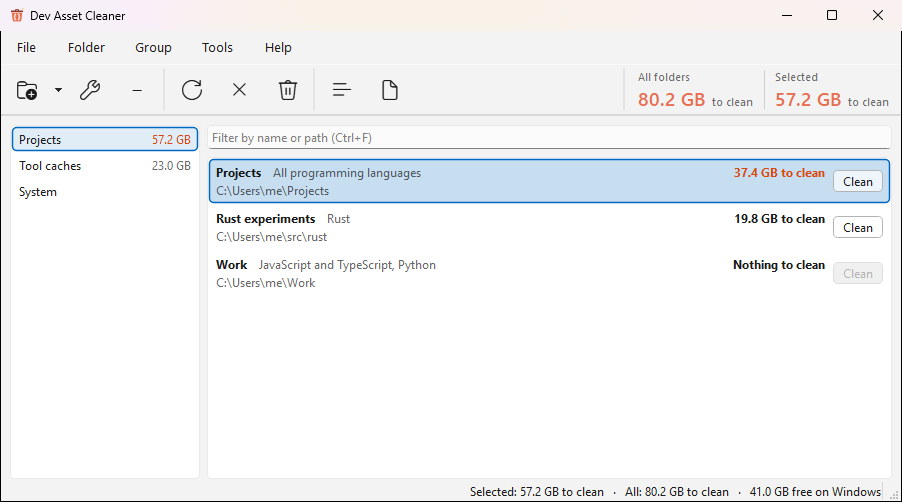
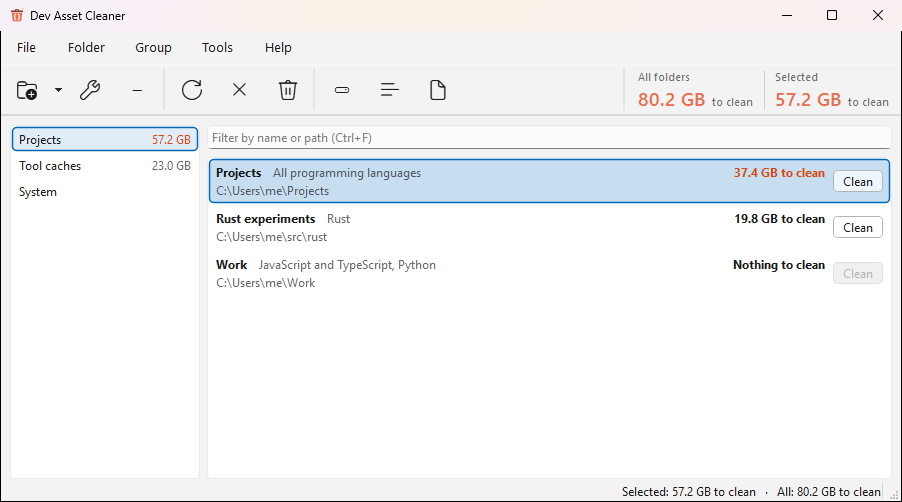
Move free space to a dialog; show only low disks in the status bar
The status bar no longer lists every disk's free space. A Free space
button in the toolbar (also Tools > Free space) opens FreeSpaceDialog,
which lists each disk with free space, size and use, and marks the
disks below the warning. The status bar shows only those disks, in the
warning colour, as an item of its own.

Changed region(s): [[0.5277, 0.9562, 0.9933, 1.0], [0.3725, 0.1494, 0.4346, 0.2092], [0.4656, 0.1494, 0.4967, 0.2092]]

diff --git a/src/ui/MainWindow.cpp b/src/ui/MainWindow.cpp
@@ -3,6 +3,7 @@
 #include "AppInfo.h"
 #include "DetectDialog.h"
 #include "ExcludeDialog.h"
+#include "FreeSpaceDialog.h"
 #include "SystemFoldersDialog.h"
 #include "FolderDialog.h"
 #include "FolderListView.h"
@@ -75,6 +76,7 @@ MainWindow::MainWindow(Store *store, Monitor *monitor, QWidget *parent)
     , m_groups(new GroupListView(m_groupModel, this))
     , m_filter(new QLineEdit(this))
     , m_summary(new QLabel(this))
+    , m_lowSpace(new QLabel(this))
     , m_busy(new SpinnerWidget(this))
 {
     setWindowTitle(AppInfo::displayName());
@@ -165,6 +167,16 @@ MainWindow::MainWindow(Store *store, Monitor *monitor, QWidget *parent)
     m_busy->setToolTip(tr("Scanning or cleaning folders"));
     statusBar()->addPermanentWidget(m_busy);
     statusBar()->addPermanentWidget(m_summary);
+    // Disks below the free space warning get an item of their own, shown only while any is low.
+    m_lowSpace->setObjectName(QStringLiteral("lowSpace"));
+    {
+        QPalette palette = m_lowSpace->palette();
+        palette.setColor(QPalette::WindowText, QColor(0xD9, 0x48, 0x0F));
+        m_lowSpace->setPalette(palette);
+    }
+    m_lowSpace->setToolTip(tr("Free space is below the warning in the settings"));
+    m_lowSpace->hide();
+    statusBar()->addPermanentWidget(m_lowSpace);
 
     createActions();
     createTray();
@@ -279,6 +291,10 @@ void MainWindow::createActions()
     tools->addAction(tr("Rescan e&verything"), m_monitor, &Monitor::rescanAll);
     tools->addSeparator();
     QAction *types = tools->addAction(tr("Cleaner &types…"), this, &MainWindow::editTypes);
+    QAction *freeSpace = tools->addAction(tr("&Free space…"), this, [this] {
+        FreeSpaceDialog dialog(m_store, m_monitor, this);
+        dialog.exec();
+    });
     QAction *settings = tools->addAction(tr("&Settings…"), this, &MainWindow::editSettings);
     settings->setShortcut(QKeySequence(Qt::CTRL | Qt::Key_Comma));
     settings->setMenuRole(QAction::PreferencesRole);
@@ -298,6 +314,7 @@ void MainWindow::createActions()
     m_cleanAllAction->setIcon(Icons::toolIcon(QIcon::ThemeIcon::EditDelete));
     types->setIcon(Icons::toolIcon(QIcon::ThemeIcon::FormatJustifyLeft));
     settings->setIcon(Icons::toolIcon(QIcon::ThemeIcon::DocumentPageSetup));
+    freeSpace->setIcon(Icons::toolIcon(QIcon::ThemeIcon::DriveHarddisk));
 
     // The toolbar repeats the most used commands, with shorter labels than the menus.
     QToolBar *toolbar = addToolBar(tr("Toolbar"));
@@ -341,6 +358,7 @@ void MainWindow::createActions()
     addButton(m_cleanAction, tr("Clean"));
     addButton(m_cleanAllAction, tr("Clean the selected groups"));
     toolbar->addSeparator();
+    addButton(freeSpace, tr("Free space"));
     addButton(types, tr("Cleaner types"));
     addButton(settings, tr("Settings"));
 #ifndef Q_OS_MACOS
@@ -435,10 +453,10 @@ void MainWindow::createTray()
 
 void MainWindow::updateSummary()
 {
-    QStringList free;
+    QStringList low;
     for (const Volume &v : m_monitor->volumes()) {
-        free.append(tr("%1%2 free on %3")
-                        .arg(v.low ? warningMark() : QString(), Format::bytes(v.freeBytes), v.name));
+        if (v.low)
+            low.append(tr("%1 free on %2").arg(Format::bytes(v.freeBytes), v.name));
     }
     const QList<QUuid> groups = selectedGroups();
     const qint64 groupCleanable = m_monitor->groupCleanableBytes(groups);
@@ -449,9 +467,9 @@ void MainWindow::updateSummary()
     } else {
         text = tr("Folders: %1 to clean").arg(Format::bytes(m_monitor->cleanableBytes()));
     }
-    if (!free.isEmpty())
-        text += QStringLiteral("   ·   ") + free.join(QStringLiteral(", "));
     m_summary->setText(text);
+    m_lowSpace->setText(warningMark() + low.join(QStringLiteral(", ")));
+    m_lowSpace->setVisible(!low.isEmpty());
     m_busy->setRunning(m_monitor->isBusy());
     if (m_usage) {
         // The selection is worth its own column only when it is not every group.

diff --git a/src/ui/FreeSpaceDialog.cpp b/src/ui/FreeSpaceDialog.cpp
@@ -1,0 +1,90 @@
+#include "FreeSpaceDialog.h"
+
+#include "Format.h"
+#include "clean/Monitor.h"
+#include "model/Store.h"
+
+#include <QDialogButtonBox>
+#include <QDir>
+#include <QHeaderView>
+#include <QLabel>
+#include <QPushButton>
+#include <QTreeWidget>
+#include <QVBoxLayout>
+
+namespace {
+const QColor WarningColor(0xD9, 0x48, 0x0F);
+
+enum Column { DiskColumn, FreeColumn, SizeColumn, UsedColumn, PathColumn };
+} // namespace
+
+FreeSpaceDialog::FreeSpaceDialog(Store *store, Monitor *monitor, QWidget *parent)
+    : QDialog(parent)
+    , m_store(store)
+    , m_monitor(monitor)
+    , m_list(new QTreeWidget(this))
+    , m_note(new QLabel(this))
+{
+    setWindowTitle(tr("Free space"));
+    resize(620, 300);
+
+    m_list->setHeaderLabels({tr("Disk"), tr("Free"), tr("Size"), tr("Used"), tr("Path")});
+    m_list->setRootIsDecorated(false);
+    m_list->setUniformRowHeights(true);
+    m_list->setSelectionMode(QAbstractItemView::NoSelection);
+    m_list->setFocusPolicy(Qt::NoFocus);
+    m_list->header()->setStretchLastSection(true);
+    for (int c : {FreeColumn, SizeColumn, UsedColumn})
+        m_list->headerItem()->setTextAlignment(c, Qt::AlignRight | Qt::AlignVCenter);
+
+    m_note->setWordWrap(true);
+
+    auto *buttons = new QDialogButtonBox(QDialogButtonBox::Close, this);
+    connect(buttons, &QDialogButtonBox::rejected, this, &QDialog::reject);
+
+    auto *layout = new QVBoxLayout(this);
+    layout->addWidget(m_list, 1);
+    layout->addWidget(m_note);
+    layout->addWidget(buttons);
+
+    connect(m_monitor, &Monitor::volumesChanged, this, &FreeSpaceDialog::refresh);
+    connect(m_store, &Store::changed, this, &FreeSpaceDialog::refresh);
+    refresh();
+}
+
+void FreeSpaceDialog::refresh()
+{
+    m_list->clear();
+    const QList<Volume> volumes = m_monitor->volumes();
+    for (const Volume &v : volumes) {
+        auto *item = new QTreeWidgetItem(m_list);
+        item->setText(DiskColumn, v.low ? QStringLiteral("⚠ ") + v.name : v.name);
+        item->setText(FreeColumn, Format::bytes(v.freeBytes));
+        item->setText(SizeColumn, Format::bytes(v.totalBytes));
+        if (v.totalBytes > 0) {
+            const double used = 100.0 * double(v.totalBytes - v.freeBytes) / double(v.totalBytes);
+            item->setText(UsedColumn, tr("%1%").arg(used, 0, 'f', 0));
+        }
+        item->setText(PathColumn, QDir::toNativeSeparators(v.rootPath));
+        for (int c : {FreeColumn, SizeColumn, UsedColumn})
+            item->setTextAlignment(c, Qt::AlignRight | Qt::AlignVCenter);
+        if (v.low) {
+            for (int c = 0; c < m_list->columnCount(); ++c)
+                item->setForeground(c, WarningColor);
+            item->setToolTip(DiskColumn, tr("Free space is below the warning in the settings."));
+        }
+    }
+    for (int c = 0; c < PathColumn; ++c)
+        m_list->resizeColumnToContents(c);
+
+    const qint64 warnBelow = m_store->settings().freeWarnBytes;
+    QString note;
+    if (volumes.isEmpty())
+        note = tr("No monitored folder is on a disk that can be read.");
+    else if (warnBelow > 0)
+        note = tr("Disks with less than %1 free are marked. The limit is in the settings.")
+                   .arg(Format::bytes(warnBelow));
+    else
+        note = tr("The free space warning is off in the settings.");
+    m_note->setText(note);
+}

diff --git a/tests/tst_mainwindow.cpp b/tests/tst_mainwindow.cpp
@@ -6,6 +6,7 @@
 #include "ui/FolderDialog.h"
 #include "ui/FolderListView.h"
 #include "ui/FolderModel.h"
+#include "ui/FreeSpaceDialog.h"
 #include "ui/GroupListView.h"
 #include "ui/GroupModel.h"
 #include "ui/MainWindow.h"
@@ -18,6 +19,7 @@
 #include <QDialogButtonBox>
 #include <QDir>
 #include <QFile>
+#include <QLabel>
 #include <QLineEdit>
 #include <QListWidget>
 #include <QPushButton>
@@ -369,6 +371,34 @@ private slots:
         auto *buttons = dialog.findChild<QDialogButtonBox *>();
         QVERIFY(buttons);
         QVERIFY(!buttons->button(QDialogButtonBox::Ok)->isEnabled());
+    }
+
+    void lowDisksShowInTheStatusBar()
+    {
+        auto *low = m_window->findChild<QLabel *>(QStringLiteral("lowSpace"));
+        QVERIFY(low);
+        Volume big{QStringLiteral("/big"), QStringLiteral("Big"), 500LL * 1000 * 1000 * 1000,
+                   1000LL * 1000 * 1000 * 1000};
+        Volume small{QStringLiteral("/small"), QStringLiteral("Small"), 1000 * 1000,
+                     100LL * 1000 * 1000 * 1000};
+        m_monitor->setVolumesForDisplay({big});
+        QVERIFY(low->isHidden());
+
+        m_monitor->setVolumesForDisplay({big, small});
+        QVERIFY(!low->isHidden());
+        QVERIFY(low->text().contains(QStringLiteral("Small")));
+        QVERIFY(!low->text().contains(QStringLiteral("Big")));
+
+        // The dialog lists every disk and follows the monitor.
+        FreeSpaceDialog dialog(m_store.get(), m_monitor.get());
+        auto *tree = dialog.findChild<QTreeWidget *>();
+        QVERIFY(tree);
+        QCOMPARE(tree->topLevelItemCount(), 2);
+        QVERIFY(tree->topLevelItem(1)->text(0).contains(QStringLiteral("Small")));
+        QVERIFY(tree->topLevelItem(0)->foreground(0) != tree->topLevelItem(1)->foreground(0));
+        m_monitor->setVolumesForDisplay({big});
+        QCOMPARE(tree->topLevelItemCount(), 1);
+        QVERIFY(low->isHidden());
     }
 
 private:

diff --git a/src/ui/FreeSpaceDialog.h b/src/ui/FreeSpaceDialog.h
@@ -1,0 +1,26 @@
+#pragma once
+
+#include <QDialog>
+
+class Monitor;
+class QLabel;
+class QTreeWidget;
+class Store;
+
+// Shows the free space on each disk that holds a monitored folder, and marks the disks below
+// the free space warning in the settings. Follows the monitor's updates while it is open.
+class FreeSpaceDialog : public QDialog
+{
+    Q_OBJECT
+
+public:
+    FreeSpaceDialog(Store *store, Monitor *monitor, QWidget *parent = nullptr);
+
+private:
+    void refresh();
+
+    Store *m_store;
+    Monitor *m_monitor;
+    QTreeWidget *m_list;
+    QLabel *m_note;
+};

diff --git a/src/ui/Icons.cpp b/src/ui/Icons.cpp
@@ -350,6 +350,13 @@ private:
             p->drawLine(QPointF(9.3, 7), QPointF(9.1, 12));
             break;
         }
+        case QIcon::ThemeIcon::DriveHarddisk: {
+            // A disk drive with a light and a slot, for free space.
+            p->drawRoundedRect(QRectF(1.5, 4.5, 13, 7), 1.5, 1.5);
+            p->drawLine(QPointF(4, 8), QPointF(9, 8));
+            p->drawEllipse(QPointF(12, 8), 0.6, 0.6);
+            break;
+        }
         default:
             break;
         }

diff --git a/src/ui/MainWindow.h b/src/ui/MainWindow.h
@@ -102,6 +102,7 @@ private:
     QSplitter *m_splitter = nullptr;
     QLineEdit *m_filter;
     QLabel *m_summary;
+    QLabel *m_lowSpace;  // disks below the free space warning
     SpinnerWidget *m_busy;
     UsagePanel *m_usage = nullptr;
     TrayIcon *m_tray = nullptr;

diff --git a/README.md b/README.md
@@ -36,6 +36,8 @@ click. It knows what programming tools leave behind, such as Rust's `target` fol
   as `~/Library/Caches` are left out, since running programs use them. Reading the macOS Trash
   needs Full Disk Access.
 - Folders are scanned in the background when added, and again every 30 minutes.
+- The **Free space** button lists the free space on each disk that holds a monitored folder.
+  The status bar shows only the disks below the free space limit in Settings, in orange.
 - Closing the window keeps the app in the system tray (the menu bar on macOS, where it also
   leaves the Dock until the window shows again). The tray menu and the tooltip show what
   cleaning each folder would free and the free space on their disks. With several groups, the tray menu has a
